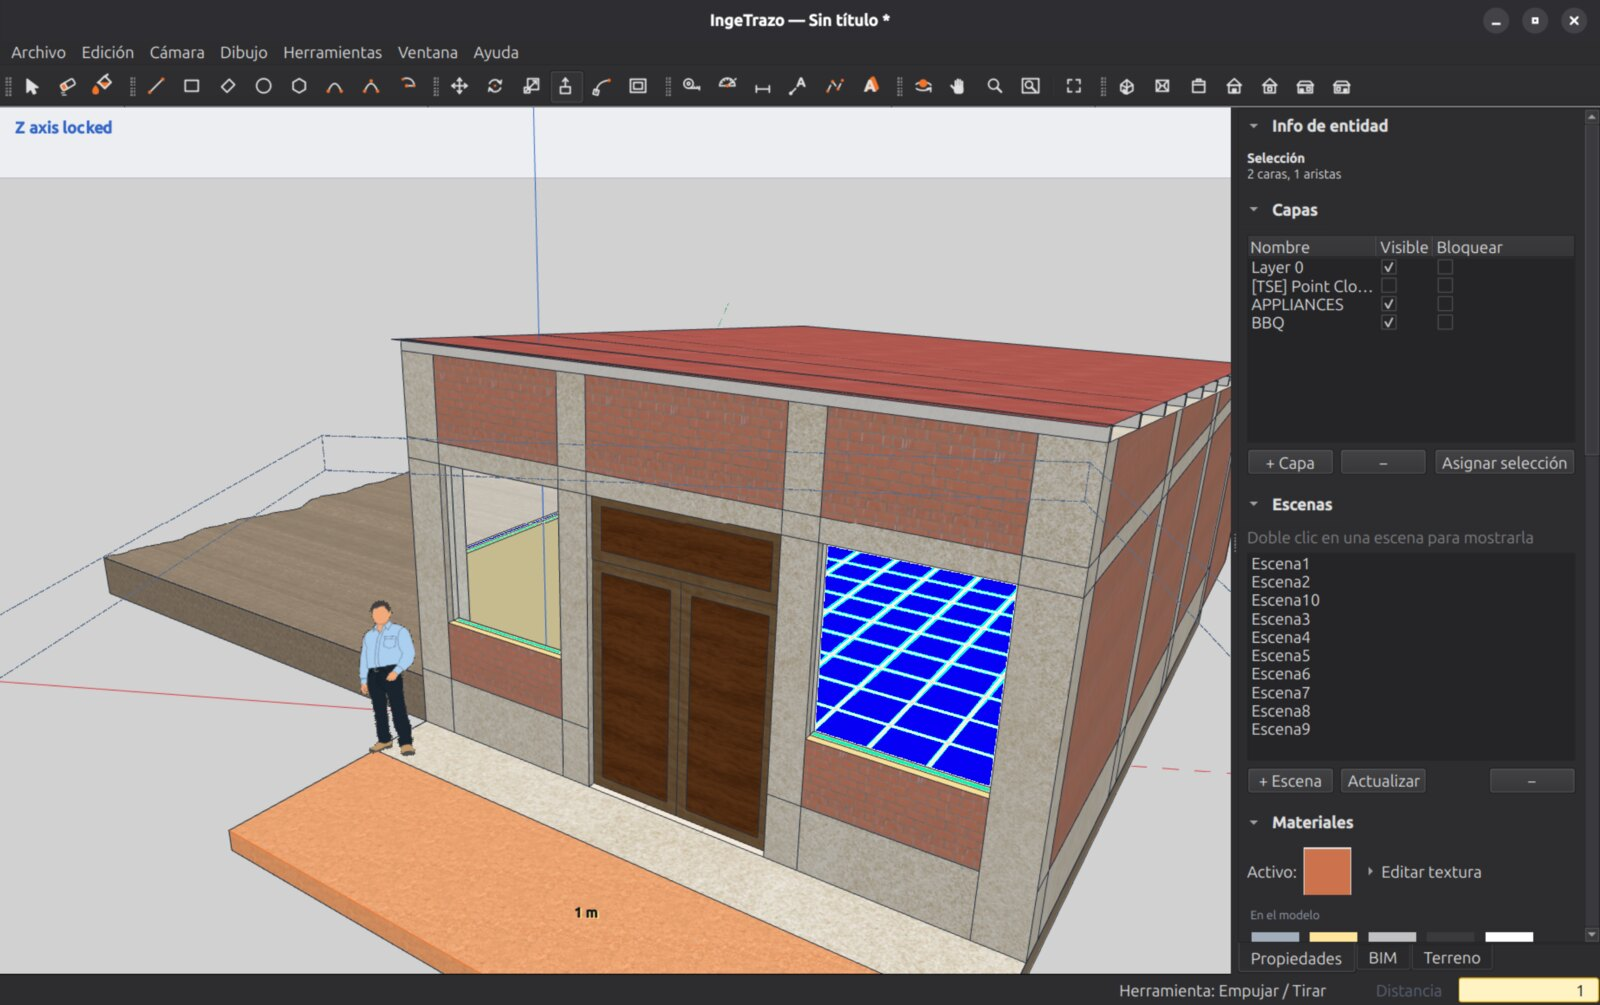
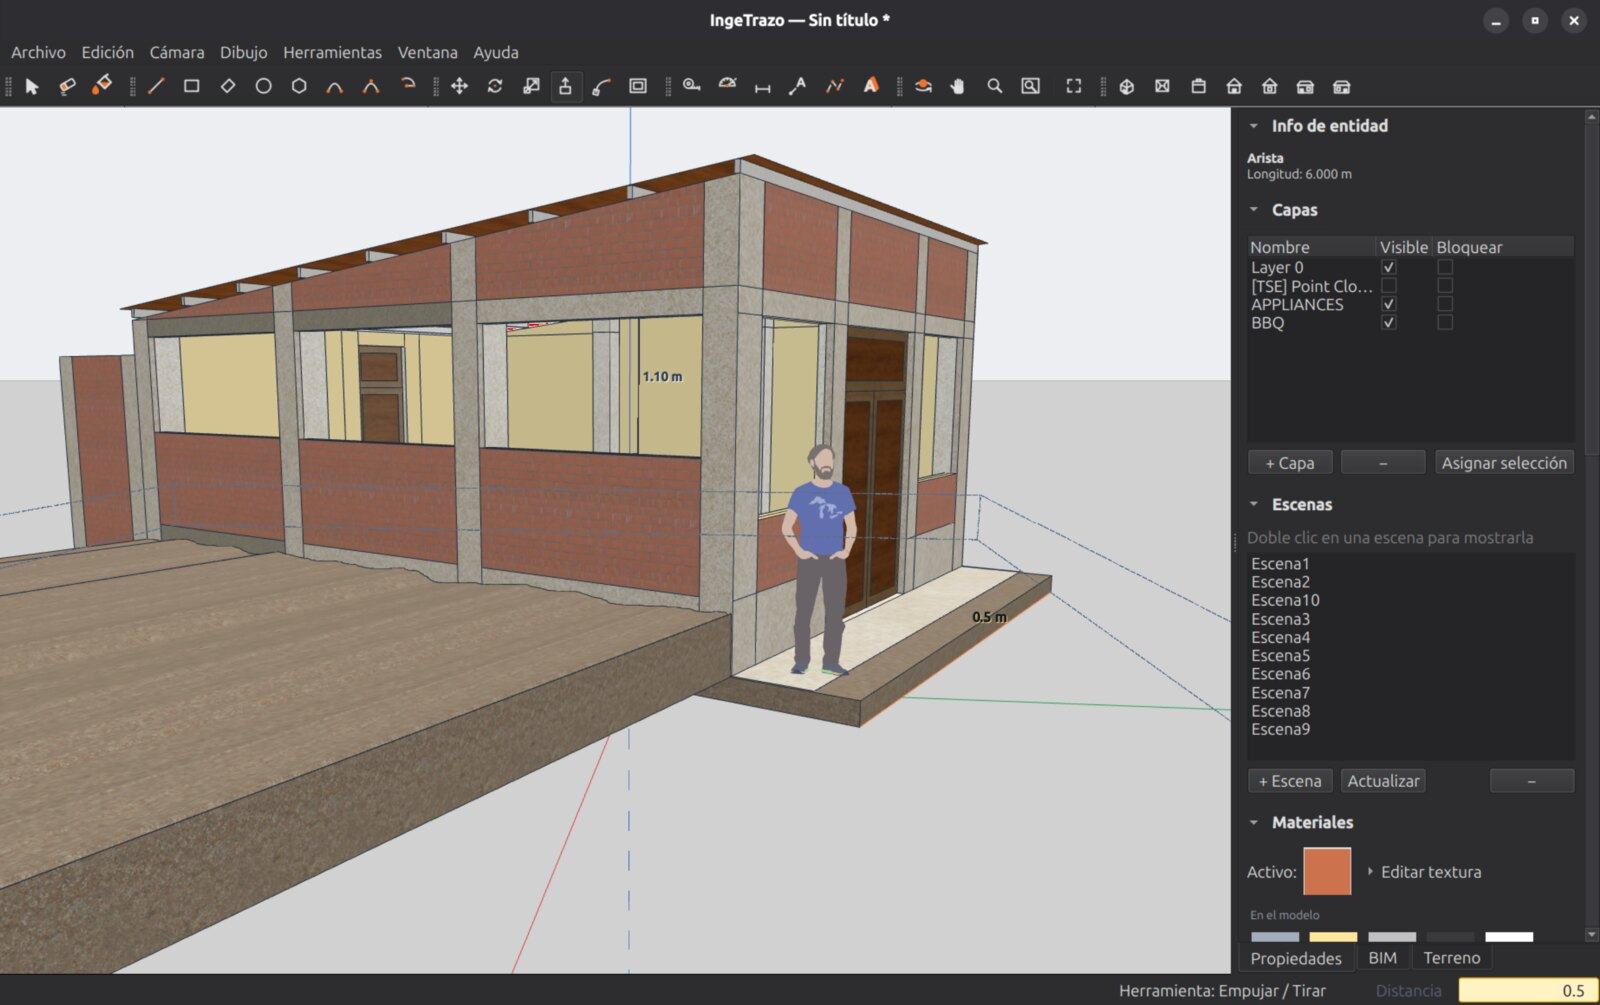
images: modelado.jpeg actualizada (local con columnas, cotas y VCB)

diff --git a/index.html b/index.html
@@ -201,7 +201,7 @@
         </div>
         <figure class="feat-img">
           <img class="zoomable" src="images/screenshots/modelado.jpeg"
-               alt="Caseta de ladrillo modelada con Empujar/Tirar, medida exacta en el VCB y capas del proyecto" width="1600" height="1005" loading="lazy">
+               alt="Local de ladrillo con columnas y vigas de techo, cotas en el modelo y Empujar/Tirar con la medida exacta en el VCB" width="1600" height="1005" loading="lazy">
         </figure>
       </div>
     </section>
